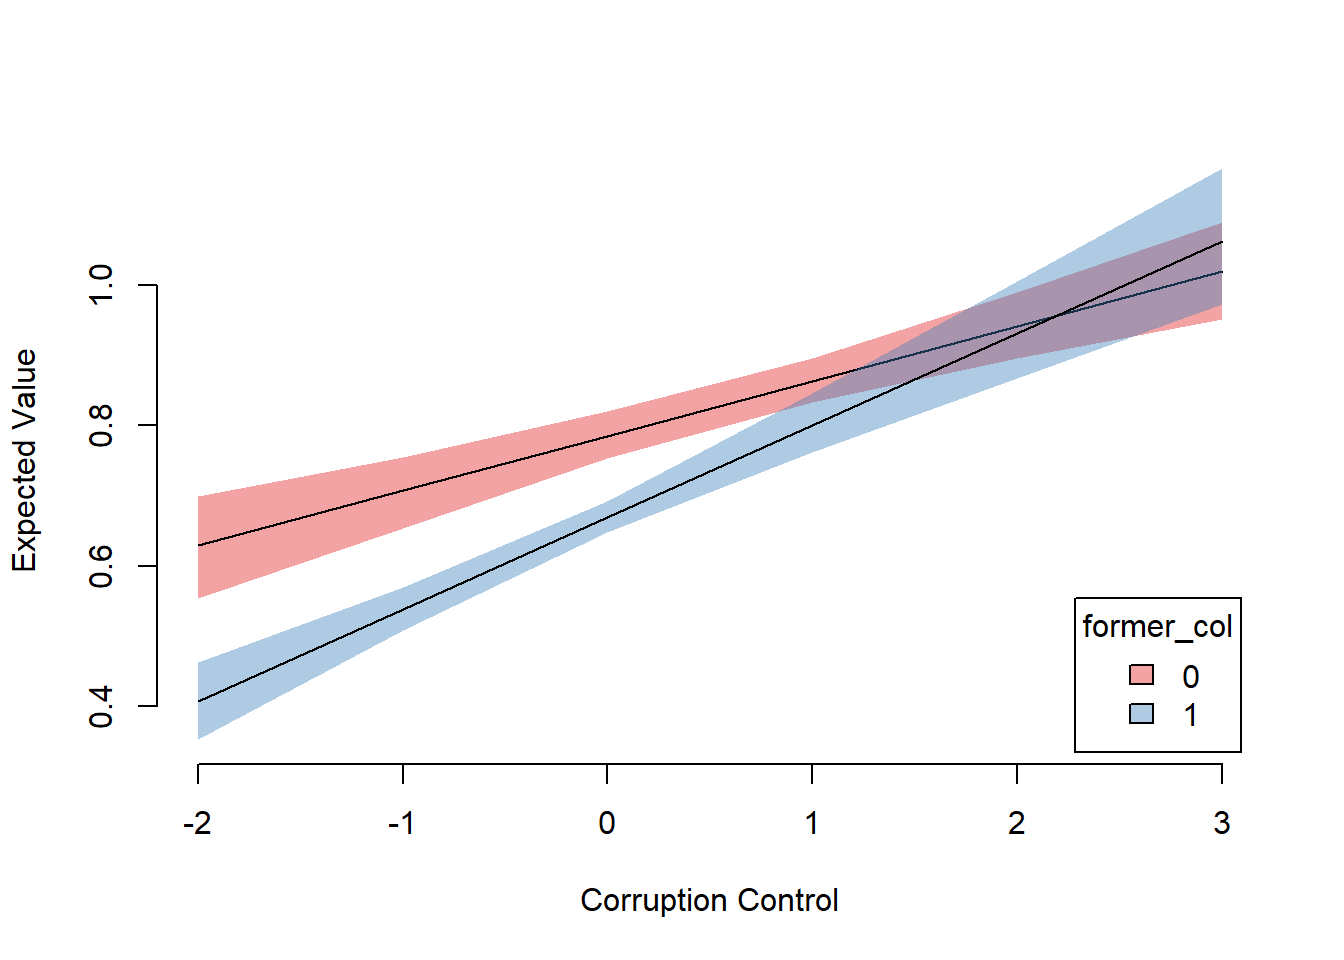
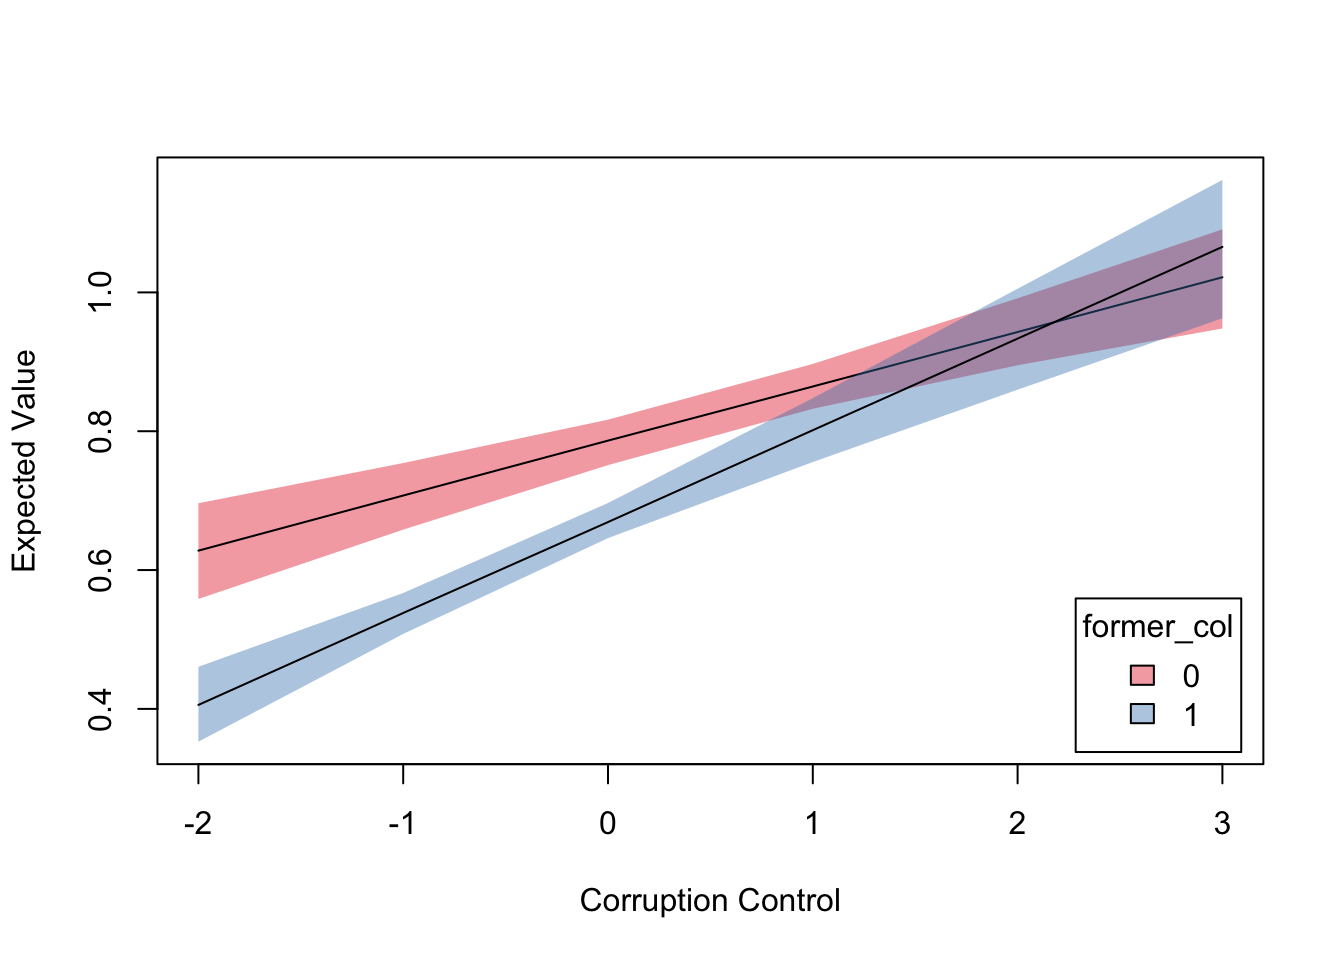
removing ylim argument from examples

diff --git a/docs/articles/binary_models.html b/docs/articles/binary_models.html
@@ -85,7 +85,7 @@
 <div class="contents">
 <div class="sourceCode"><pre class="sourceCode r"><code class="sourceCode r"><span class="kw">library</span>(foreign)
 <span class="kw">library</span>(regsim)</code></pre></div>
-<div class="sourceCode"><pre class="sourceCode r"><code class="sourceCode r">bes &lt;-<span class="st"> </span><span class="kw">read.dta</span>(<span class="st">"http://uclspp.github.io/PUBLG100/data/bes.dta"</span>)
+<div class="sourceCode"><pre class="sourceCode r"><code class="sourceCode r">bes &lt;-<span class="st"> </span><span class="kw"><a href="http://www.rdocumentation.org/packages/foreign/topics/read.dta">read.dta</a></span>(<span class="st">"http://uclspp.github.io/PUBLG100/data/bes.dta"</span>)
 
 bes<span class="op">$</span>Gender &lt;-<span class="st"> </span><span class="kw">factor</span>(bes<span class="op">$</span>Gender, <span class="dt">levels =</span> <span class="kw">c</span>(<span class="dv">0</span>, <span class="dv">1</span>), <span class="dt">labels =</span> <span class="kw">c</span>(<span class="st">"Female"</span>, <span class="st">"Male"</span>))</code></pre></div>
 <div class="sourceCode"><pre class="sourceCode r"><code class="sourceCode r">model &lt;-<span class="st"> </span><span class="kw">glm</span>(Turnout <span class="op">~</span><span class="st"> </span>Income <span class="op">+</span><span class="st"> </span>polinfoindex <span class="op">+</span><span class="st"> </span>Influence <span class="op">+</span><span class="st"> </span>Gender <span class="op">+</span><span class="st"> </span>Age <span class="op">+</span><span class="st"> </span>
@@ -141,8 +141,8 @@ sim &lt;-<span class="st"> </span><span class="kw"><a href="../reference/regsim.
 ##    edu19plus   in_school in_uni
 ## p1         0 0.008061408      0
 ## 
-##         mean         sd      2.5%       50%     97.5%
-## p1 0.7619005 0.01582821 0.7298459 0.7618069 0.7910449
+##         mean        sd      2.5%       50%     97.5%
+## p1 0.7617367 0.0158889 0.7287838 0.7626284 0.7898753
 ## ------------------------------------------------
 ## 
 ##      Income polinfoindex Influence GenderMale      Age edu15 edu17 edu18
@@ -150,14 +150,14 @@ sim &lt;-<span class="st"> </span><span class="kw"><a href="../reference/regsim.
 ##    edu19plus   in_school in_uni
 ## p2         0 0.008061408      0
 ## 
-##         mean         sd     2.5%       50%     97.5%
-## p2 0.8200599 0.01352652 0.792911 0.8198881 0.8450784
+##         mean         sd      2.5%       50%     97.5%
+## p2 0.8196676 0.01352155 0.7912018 0.8202563 0.8442412
 ## ------------------------------------------------
 ## 
 ## First Differences:
 ## 
-##          mean         sd       2.5%        50%     97.5%
-## fd 0.05815937 0.01353075 0.03152555 0.05808976 0.0850349</code></pre>
+##         mean         sd       2.5%        50%      97.5%
+## fd 0.0579309 0.01361112 0.03188454 0.05798062 0.08487463</code></pre>
 <div class="sourceCode"><pre class="sourceCode r"><code class="sourceCode r"><span class="kw">summary</span>(sim, <span class="dt">detail =</span> <span class="ot">TRUE</span>, <span class="dt">rotate =</span> <span class="ot">TRUE</span>)</code></pre></div>
 <pre><code>##                 Profile 1
 ## Income        5.321557318
@@ -172,8 +172,8 @@ sim &lt;-<span class="st"> </span><span class="kw"><a href="../reference/regsim.
 ## in_school     0.008061408
 ## in_uni        0.000000000
 ## 
-##         mean         sd      2.5%       50%     97.5%
-## p1 0.7619005 0.01582821 0.7298459 0.7618069 0.7910449
+##         mean        sd      2.5%       50%     97.5%
+## p1 0.7617367 0.0158889 0.7287838 0.7626284 0.7898753
 ## ------------------------------------------------
 ## 
 ##                 Profile 2
@@ -189,14 +189,14 @@ sim &lt;-<span class="st"> </span><span class="kw"><a href="../reference/regsim.
 ## in_school     0.008061408
 ## in_uni        0.000000000
 ## 
-##         mean         sd     2.5%       50%     97.5%
-## p2 0.8200599 0.01352652 0.792911 0.8198881 0.8450784
+##         mean         sd      2.5%       50%     97.5%
+## p2 0.8196676 0.01352155 0.7912018 0.8202563 0.8442412
 ## ------------------------------------------------
 ## 
 ## First Differences:
 ## 
-##          mean         sd       2.5%        50%     97.5%
-## fd 0.05815937 0.01353075 0.03152555 0.05808976 0.0850349</code></pre>
+##         mean         sd       2.5%        50%      97.5%
+## fd 0.0579309 0.01361112 0.03188454 0.05798062 0.08487463</code></pre>
 <div class="sourceCode"><pre class="sourceCode r"><code class="sourceCode r">x &lt;-<span class="st"> </span><span class="kw">list</span>(
   <span class="dt">Gender =</span> <span class="kw">c</span>(<span class="st">"Male"</span>, <span class="st">"Female"</span>),
   <span class="dt">Income =</span> <span class="dv">1</span><span class="op">:</span><span class="dv">13</span>
@@ -233,62 +233,60 @@ sim &lt;-<span class="st"> </span><span class="kw"><a href="../reference/regsim.
 ## 25     13     5.409277  3.608508          1 50.91853     0     0     0
 ## 26     13     5.409277  3.608508          0 50.91853     0     0     0
 ##    edu19plus   in_school in_uni      mean         sd      2.5%       50%
-## 1          0 0.008061408      0 0.6204818 0.02890418 0.5641305 0.6197992
-## 2          0 0.008061408      0 0.7001204 0.02475577 0.6528174 0.7005122
-## 3          0 0.008061408      0 0.6560590 0.02469981 0.6083253 0.6558056
-## 4          0 0.008061408      0 0.7315077 0.02081161 0.6923363 0.7317245
-## 5          0 0.008061408      0 0.6899803 0.02118860 0.6489180 0.6898176
-## 6          0 0.008061408      0 0.7607230 0.01771291 0.7281824 0.7605662
-## 7          0 0.008061408      0 0.7219653 0.01857008 0.6856288 0.7217777
-## 8          0 0.008061408      0 0.7876577 0.01554075 0.7579334 0.7875330
-## 9          0 0.008061408      0 0.7518116 0.01691854 0.7195406 0.7518339
-## 10         0 0.008061408      0 0.8122740 0.01424216 0.7843123 0.8124795
-## 11         0 0.008061408      0 0.7793948 0.01612655 0.7485979 0.7794104
-## 12         0 0.008061408      0 0.8345952 0.01362338 0.8079155 0.8344647
-## 13         0 0.008061408      0 0.8046629 0.01593663 0.7731253 0.8046488
-## 14         0 0.008061408      0 0.8546936 0.01342111 0.8270409 0.8550271
-## 15         0 0.008061408      0 0.8276268 0.01605456 0.7968036 0.8274308
-## 16         0 0.008061408      0 0.8726785 0.01339771 0.8459383 0.8729050
-## 17         0 0.008061408      0 0.8483487 0.01624555 0.8165595 0.8484910
-## 18         0 0.008061408      0 0.8886851 0.01338978 0.8621155 0.8891500
-## 19         0 0.008061408      0 0.8669301 0.01636289 0.8349761 0.8669912
-## 20         0 0.008061408      0 0.9028637 0.01330700 0.8764106 0.9034991
-## 21         0 0.008061408      0 0.8835004 0.01633370 0.8517326 0.8839144
-## 22         0 0.008061408      0 0.9153721 0.01311139 0.8890813 0.9164065
-## 23         0 0.008061408      0 0.8982063 0.01613468 0.8667758 0.8985069
-## 24         0 0.008061408      0 0.9263685 0.01279692 0.9006236 0.9276209
-## 25         0 0.008061408      0 0.9112031 0.01577171 0.8803065 0.9117269
-## 26         0 0.008061408      0 0.9360069 0.01237477 0.9105157 0.9372242
+## 1          0 0.008061408      0 0.6221115 0.02829015 0.5659692 0.6229747
+## 2          0 0.008061408      0 0.7011020 0.02457233 0.6511239 0.7019216
+## 3          0 0.008061408      0 0.6574872 0.02406482 0.6101265 0.6583652
+## 4          0 0.008061408      0 0.7323170 0.02045576 0.6904834 0.7324036
+## 5          0 0.008061408      0 0.6912055 0.02058602 0.6509761 0.6918939
+## 6          0 0.008061408      0 0.7613722 0.01721364 0.7272612 0.7613946
+## 7          0 0.008061408      0 0.7229917 0.01806510 0.6890780 0.7231460
+## 8          0 0.008061408      0 0.7881610 0.01495127 0.7577565 0.7884901
+## 9          0 0.008061408      0 0.7526483 0.01657288 0.7210592 0.7527013
+## 10         0 0.008061408      0 0.8126472 0.01363530 0.7838117 0.8136539
+## 11         0 0.008061408      0 0.7800546 0.01597449 0.7486870 0.7802837
+## 12         0 0.008061408      0 0.8348541 0.01306840 0.8083405 0.8360102
+## 13         0 0.008061408      0 0.8051615 0.01597584 0.7726376 0.8059425
+## 14         0 0.008061408      0 0.8548542 0.01296191 0.8280489 0.8560983
+## 15         0 0.008061408      0 0.8279813 0.01625905 0.7942398 0.8290770
+## 16         0 0.008061408      0 0.8727559 0.01305056 0.8459668 0.8738527
+## 17         0 0.008061408      0 0.8485770 0.01658286 0.8138828 0.8496173
+## 18         0 0.008061408      0 0.8886934 0.01315323 0.8618634 0.8893484
+## 19         0 0.008061408      0 0.8670501 0.01680337 0.8312516 0.8682732
+## 20         0 0.008061408      0 0.9028157 0.01317138 0.8758056 0.9036025
+## 21         0 0.008061408      0 0.8835292 0.01685303 0.8474670 0.8846980
+## 22         0 0.008061408      0 0.9152792 0.01306432 0.8880922 0.9162326
+## 23         0 0.008061408      0 0.8981596 0.01671349 0.8626565 0.8995532
+## 24         0 0.008061408      0 0.9262407 0.01282584 0.8997870 0.9273182
+## 25         0 0.008061408      0 0.9110955 0.01639454 0.8769971 0.9127374
+## 26         0 0.008061408      0 0.9358529 0.01246793 0.9100506 0.9371130
 ##        97.5%
-## 1  0.6740108
-## 2  0.7477587
-## 3  0.7022191
-## 4  0.7726076
-## 5  0.7292627
-## 6  0.7955823
-## 7  0.7569024
-## 8  0.8182678
-## 9  0.7842534
-## 10 0.8398762
-## 11 0.8114676
-## 12 0.8606024
-## 13 0.8362192
-## 14 0.8801728
-## 15 0.8581645
-## 16 0.8978854
-## 17 0.8790734
-## 18 0.9149877
-## 19 0.8979798
-## 20 0.9277489
-## 21 0.9145376
-## 22 0.9390660
-## 23 0.9290074
-## 24 0.9492350
-## 25 0.9406633
-## 26 0.9573613</code></pre>
+## 1  0.6777811
+## 2  0.7465428
+## 3  0.7048365
+## 4  0.7701952
+## 5  0.7321777
+## 6  0.7930367
+## 7  0.7585071
+## 8  0.8160730
+## 9  0.7855046
+## 10 0.8382693
+## 11 0.8118675
+## 12 0.8594019
+## 13 0.8357218
+## 14 0.8796337
+## 15 0.8586693
+## 16 0.8977380
+## 17 0.8782607
+## 18 0.9128248
+## 19 0.8972028
+## 20 0.9262206
+## 21 0.9138611
+## 22 0.9382374
+## 23 0.9278782
+## 24 0.9482326
+## 25 0.9397729
+## 26 0.9568833</code></pre>
 <div class="sourceCode"><pre class="sourceCode r"><code class="sourceCode r"><span class="kw">plot</span>(sim, <span class="op">~</span>Income <span class="op">+</span><span class="st"> </span>GenderMale, 
-     <span class="dt">ylim =</span> <span class="kw">c</span>(<span class="fl">0.5</span>, <span class="dv">1</span>), 
-     <span class="dt">bty =</span> <span class="st">"n"</span>,
      <span class="dt">ylab =</span> <span class="st">"Predicted Probability of Voting"</span>,
      <span class="dt">main =</span> <span class="st">"Effect of Income by Gender"</span>)</code></pre></div>
 <p><img src="binary_models_files/figure-html/unnamed-chunk-6-1.png" width="672"></p>

diff --git a/docs/articles/interaction_terms.html b/docs/articles/interaction_terms.html
@@ -86,7 +86,7 @@
 <div class="sourceCode"><pre class="sourceCode r"><code class="sourceCode r"><span class="kw">library</span>(foreign)
 <span class="kw">library</span>(regsim)
 
-world_data &lt;-<span class="st"> </span><span class="kw">read.dta</span>(<span class="st">"http://uclspp.github.io/PUBLG100/data/QoG2012.dta"</span>)</code></pre></div>
+world_data &lt;-<span class="st"> </span><span class="kw"><a href="http://www.rdocumentation.org/packages/foreign/topics/read.dta">read.dta</a></span>(<span class="st">"http://uclspp.github.io/PUBLG100/data/QoG2012.dta"</span>)</code></pre></div>
 <div class="sourceCode"><pre class="sourceCode r"><code class="sourceCode r">model &lt;-<span class="st"> </span><span class="kw">lm</span>(undp_hdi <span class="op">~</span><span class="st"> </span>wbgi_cce <span class="op">+</span><span class="st"> </span>former_col <span class="op">+</span><span class="st"> </span>wbgi_cce<span class="op">:</span>former_col, <span class="dt">data =</span> world_data)
 <span class="kw">summary</span>(model)</code></pre></div>
 <pre><code>## 
@@ -124,7 +124,7 @@ sim &lt;-<span class="st"> </span><span class="kw"><a href="../reference/regsim.
 ## wbgi_cce:former_col         0
 ## 
 ##         mean         sd      2.5%       50%     97.5%
-## p1 0.6288497 0.03772126 0.5539219 0.6290345 0.6988188
+## p1 0.6277528 0.03670527 0.5583649 0.6279652 0.6962546
 ## ------------------------------------------------
 ## 
 ##                     Profile 2
@@ -132,8 +132,8 @@ sim &lt;-<span class="st"> </span><span class="kw"><a href="../reference/regsim.
 ## former_col                  1
 ## wbgi_cce:former_col        -2
 ## 
-##         mean         sd      2.5%       50%    97.5%
-## p2 0.4072782 0.02774175 0.3526629 0.4068307 0.462501
+##        mean         sd      2.5%       50%    97.5%
+## p2 0.406702 0.02737513 0.3527422 0.4057155 0.460632
 ## ------------------------------------------------
 ## 
 ##                     Profile 3
@@ -141,8 +141,8 @@ sim &lt;-<span class="st"> </span><span class="kw"><a href="../reference/regsim.
 ## former_col                  0
 ## wbgi_cce:former_col         0
 ## 
-##        mean        sd    2.5%       50%     97.5%
-## p3 0.707103 0.0259791 0.65413 0.7075046 0.7550073
+##         mean         sd      2.5%       50%     97.5%
+## p3 0.7066713 0.02516333 0.6582437 0.7073596 0.7541879
 ## ------------------------------------------------
 ## 
 ##                     Profile 4
@@ -150,8 +150,8 @@ sim &lt;-<span class="st"> </span><span class="kw"><a href="../reference/regsim.
 ## former_col                  1
 ## wbgi_cce:former_col        -1
 ## 
-##         mean         sd      2.5%       50%     97.5%
-## p4 0.5385794 0.01541162 0.5080924 0.5380084 0.5693771
+##         mean         sd     2.5%       50%     97.5%
+## p4 0.5381676 0.01502178 0.508009 0.5381703 0.5669773
 ## ------------------------------------------------
 ## 
 ##                     Profile 5
@@ -159,8 +159,8 @@ sim &lt;-<span class="st"> </span><span class="kw"><a href="../reference/regsim.
 ## former_col                  0
 ## wbgi_cce:former_col         0
 ## 
-##         mean        sd      2.5%      50%     97.5%
-## p5 0.7853562 0.0170902 0.7539421 0.784235 0.8206221
+##         mean         sd      2.5%       50%     97.5%
+## p5 0.7855898 0.01663851 0.7511761 0.7864669 0.8166547
 ## ------------------------------------------------
 ## 
 ##                     Profile 6
@@ -168,8 +168,8 @@ sim &lt;-<span class="st"> </span><span class="kw"><a href="../reference/regsim.
 ## former_col                  1
 ## wbgi_cce:former_col         0
 ## 
-##         mean        sd      2.5%       50%    97.5%
-## p6 0.6698806 0.0116168 0.6481953 0.6695973 0.692535
+##         mean         sd      2.5%       50%     97.5%
+## p6 0.6696332 0.01236999 0.6460214 0.6691606 0.6965815
 ## ------------------------------------------------
 ## 
 ##                     Profile 7
@@ -177,8 +177,8 @@ sim &lt;-<span class="st"> </span><span class="kw"><a href="../reference/regsim.
 ## former_col                  0
 ## wbgi_cce:former_col         0
 ## 
-##         mean         sd     2.5%       50%     97.5%
-## p7 0.8636095 0.01656434 0.832471 0.8628291 0.8957074
+##         mean         sd      2.5%       50%     97.5%
+## p7 0.8645083 0.01667986 0.8323656 0.8644619 0.8969856
 ## ------------------------------------------------
 ## 
 ##                     Profile 8
@@ -187,7 +187,7 @@ sim &lt;-<span class="st"> </span><span class="kw"><a href="../reference/regsim.
 ## wbgi_cce:former_col         1
 ## 
 ##         mean         sd      2.5%       50%     97.5%
-## p8 0.8011817 0.02149187 0.7619157 0.7997137 0.8455698
+## p8 0.8010988 0.02305399 0.7556452 0.8015035 0.8476814
 ## ------------------------------------------------
 ## 
 ##                     Profile 9
@@ -195,8 +195,8 @@ sim &lt;-<span class="st"> </span><span class="kw"><a href="../reference/regsim.
 ## former_col                  0
 ## wbgi_cce:former_col         0
 ## 
-##         mean         sd    2.5%       50%     97.5%
-## p9 0.9418627 0.02493635 0.89532 0.9416067 0.9900831
+##         mean         sd      2.5%       50%     97.5%
+## p9 0.9434268 0.02524532 0.8950205 0.9429681 0.9915171
 ## ------------------------------------------------
 ## 
 ##                     Profile 10
@@ -205,7 +205,7 @@ sim &lt;-<span class="st"> </span><span class="kw"><a href="../reference/regsim.
 ## wbgi_cce:former_col          2
 ## 
 ##          mean         sd      2.5%       50%    97.5%
-## p10 0.9324829 0.03490514 0.8671597 0.9309185 1.005119
+## p10 0.9325644 0.03689259 0.8598161 0.9334571 1.005305
 ## ------------------------------------------------
 ## 
 ##                     Profile 11
@@ -213,8 +213,8 @@ sim &lt;-<span class="st"> </span><span class="kw"><a href="../reference/regsim.
 ## former_col                   0
 ## wbgi_cce:former_col          0
 ## 
-##         mean         sd      2.5%     50%    97.5%
-## p11 1.020116 0.03652953 0.9505794 1.02027 1.089143
+##         mean         sd      2.5%      50%    97.5%
+## p11 1.022345 0.03679899 0.9480909 1.021823 1.090822
 ## ------------------------------------------------
 ## 
 ##                     Profile 12
@@ -222,10 +222,10 @@ sim &lt;-<span class="st"> </span><span class="kw"><a href="../reference/regsim.
 ## former_col                   1
 ## wbgi_cce:former_col          3
 ## 
-##         mean         sd      2.5%      50%    97.5%
-## p12 1.063784 0.04903423 0.9727907 1.062389 1.166221
+##        mean         sd      2.5%      50%    97.5%
+## p12 1.06403 0.05139793 0.9628055 1.065568 1.162057
 ## ------------------------------------------------</code></pre>
-<div class="sourceCode"><pre class="sourceCode r"><code class="sourceCode r"><span class="kw">plot</span>(sim, <span class="op">~</span>wbgi_cce <span class="op">+</span><span class="st"> </span>former_col, <span class="dt">xlab =</span> <span class="st">"Corruption Control"</span>, <span class="dt">ylim =</span> <span class="kw">c</span>(<span class="fl">0.35</span>, <span class="fl">1.15</span>), <span class="dt">bty =</span> <span class="st">"n"</span>)</code></pre></div>
+<div class="sourceCode"><pre class="sourceCode r"><code class="sourceCode r"><span class="kw">plot</span>(sim, <span class="op">~</span>wbgi_cce <span class="op">+</span><span class="st"> </span>former_col, <span class="dt">xlab =</span> <span class="st">"Corruption Control"</span>)</code></pre></div>
 <p><img src="interaction_terms_files/figure-html/unnamed-chunk-4-1.png" width="672"></p>
 </div>
   </div>

diff --git a/docs/articles/regsim.html b/docs/articles/regsim.html
@@ -118,7 +118,7 @@ x &lt;-<span class="st"> </span><span class="kw">list</span>(
 )
 
 sim &lt;-<span class="st"> </span><span class="kw"><a href="../reference/regsim.html">regsim</a></span>(m1, x)</code></pre></div>
-<div class="sourceCode"><pre class="sourceCode r"><code class="sourceCode r"><span class="kw">plot</span>(sim, <span class="op">~</span>pctUrban, <span class="dt">ylim =</span> <span class="kw">c</span>(<span class="fl">0.3</span>, <span class="fl">0.5</span>), <span class="dt">bty =</span> <span class="st">"n"</span>, <span class="dt">xlab =</span> <span class="st">"Pct Urban"</span>, <span class="dt">ylab =</span> <span class="st">"Unemployment Rate"</span>)</code></pre></div>
+<div class="sourceCode"><pre class="sourceCode r"><code class="sourceCode r"><span class="kw">plot</span>(sim, <span class="op">~</span>pctUrban, <span class="dt">xlab =</span> <span class="st">"Pct Urban"</span>, <span class="dt">ylab =</span> <span class="st">"Unemployment Rate"</span>)</code></pre></div>
 <p><img src="regsim_files/figure-html/unnamed-chunk-4-1.png" width="672"></p>
 <div class="sourceCode"><pre class="sourceCode r"><code class="sourceCode r"><span class="kw">summary</span>(sim)</code></pre></div>
 <pre><code>##    pctUrban householdsize racePctWhite      mean          sd      2.5%

diff --git a/docs/index.html b/docs/index.html
@@ -105,7 +105,7 @@ x &lt;-<span class="st"> </span><span class="kw">list</span>(
 
 sim &lt;-<span class="st"> </span><span class="kw"><a href="reference/regsim.html">regsim</a></span>(model, x)
 
-<span class="kw">plot</span>(sim, <span class="op">~</span><span class="st"> </span>wt, <span class="dt">ylim =</span> <span class="kw">c</span>(<span class="dv">10</span>, <span class="dv">30</span>))</code></pre></div>
+<span class="kw">plot</span>(sim, <span class="op">~</span><span class="st"> </span>wt)</code></pre></div>
 <p><img src="README-example-1.png" width="672"></p>
 </div>
 </div>

diff --git a/README.md b/README.md
@@ -31,7 +31,7 @@ x <- list(
 
 sim <- regsim(model, x)
 
-plot(sim, ~ wt, ylim = c(10, 30))
+plot(sim, ~ wt)
 ```
 
 ![](README-example-1.png)
